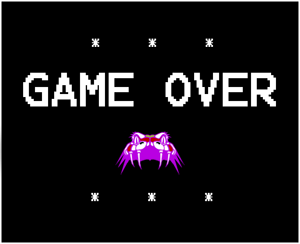
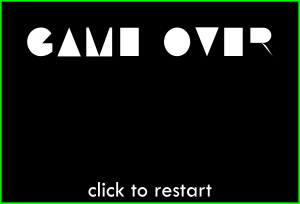
main open page lasers sound music

diff --git a/07-OblazPy/OblazPy.py b/07-OblazPy/OblazPy.py
@@ -29,6 +29,7 @@ class Ball:
         self.last_hit_time = 0
         self.mass = 1
         self.speed = 50
+        self.sound = pygame.mixer.Sound("bounce.wav")
 
     def draw(self):
         pygame.draw.circle(self.screen, self.color, (self.x, self.y), self.radius)
@@ -50,6 +51,8 @@ class Ball:
 
     def hit(self, particle):
         distance = math.sqrt((self.x - particle.x) ** 2 + (self.y - particle.y) ** 2)
+        if distance < self.radius:
+            self.sound.play()
         return distance < self.radius
 
     def wrap(self):
@@ -64,19 +67,58 @@ class Scoreboard:
         self.screen = screen
         self.start = start_time
         self.score = 0
-        self.font = pygame.font.Font(None, 30)
+        self.font = pygame.font.SysFont('bahnschrift', 30)
 
     def draw(self):
         score_string = "Time: {}".format(self.score)
         score_image = self.font.render(score_string, True, (255, 255, 255))
-        self.screen.blit(score_image, (100, 100))
+        self.screen.blit(score_image, (20, 20))
 
     def update(self):
         self.score = round(time.time() - self.start, 3)
 
 
 class Leaderboard:
-    pass
+    def __init__(self, screen):
+        self.all_scores = [0]
+        self.screen = screen
+
+    def add_score(self, score):
+        self.all_scores.append(score)
+
+    def high_score(self):
+        return max(self.all_scores)
+
+    def draw(self):
+        font = pygame.font.SysFont('bahnschrift', 30)
+        score_string = "Best: {}".format(self.high_score())
+        score_image = font.render(score_string, True, (255, 255, 255))
+        self.screen.blit(score_image, (20, 60))
+
+
+class Laser:
+    def __init__(self, screen, y):
+        self.screen = screen
+        self.color = (255, 0, 0)
+        self.start_x = 0
+        self.end_x = screen.get_width()
+        self.y = y
+        self.sound = pygame.mixer.Sound("laser_death.wav")
+
+    def draw(self):
+        pygame.draw.line(self.screen, self.color, (self.start_x, self.y), (self.end_x, self.y), 4)
+
+    def top_hit(self, ball):
+        if self.y + ball.radius > ball.y:
+            self.sound.play()
+            return True
+        return False
+
+    def bot_hit(self, ball):
+        if self.y - ball.radius < ball.y:
+            self.sound.play()
+            return True
+        return False
 
 
 class LineParticle:
@@ -85,7 +127,7 @@ class LineParticle:
         self.x = x
         self.y = y
         self.color = (0, 255, 0)
-        self.radius = 5
+        self.radius = 3
         self.diameter = self.radius * 2
         self.speed = 1
         self.mass = math.inf  # TODO: check if 100 is better
@@ -96,94 +138,117 @@ class LineParticle:
     def move(self):
         self.y = self.y - self.speed
 
+    """
+    def increase_speed(self, score):
+        self.speed = math.ceil(score / 10)
+    """
 
-class Pen():
+class Pen:
     """ moves a draw dot on the screen, following the mouse"""
-    def __init__(self, screen):
+    def __init__(self, screen, radius=5):
         pos = pygame.mouse.get_pos()
         self.x, self.y = pygame.mouse.get_pos()
         self.screen = screen
         self.color = (255, 0, 255)
+        self.radius = radius
 
     def draw(self):
-        pygame.draw.circle(self.screen, self.color, (self.x, self.y), 5)
+        pygame.draw.circle(self.screen, self.color, (self.x, self.y), self.radius)
+
+class Eraser:
+    def __init__(self):
+        pass
+
+class Freeze:
+    def __init__(self, screen, x, y):
+        pass
 
 
-def setup(first_round_state):
-    if first_round_state:
-        while first_round_state:
-            for event in pygame.event.get():
-                if event.type == pygame.QUIT:
-                    pygame.quit()
-                    quit()
-                pressed_keys = pygame.mouse.get_pressed()
-                if pressed_keys == (1, 0, 0):
-                    first_round_state = False
-
-            pygame.display.update()
-    else:
-       pass
-
-
-def main():
+def game_loop(screen, scoreboard, leaderboard, clock, font):
     # Boilerplate code
-    game_over_image = pygame.image.load("gameover.png")
 
-    pygame.init()
-    screen = pygame.display.set_mode((1000, 1000))
-    clock = pygame.time.Clock()
-    round_number = 1
+   # load images
+    game_over_image = pygame.image.load("gameover.png")
+    wait_to_start = True
     is_game_over = False
 
-    # construct ball and line list
+    # construct ball, laser and line list
+    top_laser = Laser(screen, 20)
+    bot_laser = Laser(screen, screen.get_height() - 20)
     line_list = []
-    ball = Ball(screen, screen.get_width() // 2, 50)
+    ball = Ball(screen, screen.get_width() // 2, 60)
     ball.draw()
-    scoreboard = Scoreboard(screen, time.time())
     scoreboard.draw()
+    leaderboard.draw()
+    top_laser.draw()
+    bot_laser.draw()
 
-    while round_number == 1:
+    # wait for mouse click to start game
+    while wait_to_start:
         for event in pygame.event.get():
             if event.type == pygame.QUIT:
                 pygame.quit()
                 quit()
             pressed_keys = pygame.mouse.get_pressed()
             if pressed_keys == (1, 0, 0):
-                round_number += 1
                 scoreboard = Scoreboard(screen, time.time())
-
+                wait_to_start = False
         pygame.display.update()
 
     # introduction screen and game is over screen
-
     while True:
         screen.fill((0, 0, 0))  # black
-        clock.tick(120)  # sets clock speed to 60 fps
+        clock.tick(120)  # sets clock speed to 120 fps
 
         for event in pygame.event.get():
             if event.type == pygame.QUIT:
                 sys.exit()
 
-        # Check for game over
-        if ball.y > screen.get_height() or ball.y < 0:
-            is_game_over = True
+        #TODO: implement incremental level up
+        """
+        # check for level up 
+        for particle in line_list:
+            particle.increase_speed(scoreboard.score)
+        """
 
         # Draw these before game is over
         scoreboard.draw()
+        leaderboard.draw()
         ball.draw()
         for particle in line_list:
             particle.draw()
-
+        top_laser.draw()
+        bot_laser.draw()
         pen = Pen(screen)
         pen.draw()
 
+        game_over_loops = 0
         if is_game_over:
+            game_over_loops += 1
+
+            # draw game over image
             screen.blit(game_over_image, (screen.get_width() // 2 - game_over_image.get_width() // 2,
                                           screen.get_height() // 2 - game_over_image.get_height() // 2))
-            pygame.display.update()
+
+            # check for restart click
             pressed_keys = pygame.mouse.get_pressed()
-            if pressed_keys == (1, 0, 0):
-                main()
+            position_x, position_y = pygame.mouse.get_pos()
+            hitbox = pygame.Rect(screen.get_width() // 2 - game_over_image.get_width() // 2,
+                                 screen.get_height() // 2 - game_over_image.get_height() // 2,
+                                 game_over_image.get_width(),
+                                 game_over_image.get_height())
+            score_image = font.render(str(scoreboard.score), True, (255, 255, 255))
+            high_score_image = font.render("NEW HIGH SCORE!", True, (255, 255, 255))
+            screen.blit(score_image, (screen.get_width() // 2 - score_image.get_width() // 2,
+                                      screen.get_height() // 2 - score_image.get_height() // 2 + 10))
+            if scoreboard.score == leaderboard.high_score() and game_over_loops > 2: #TODO: flashing
+                screen.blit(high_score_image, (screen.get_width() // 2 - high_score_image.get_width() // 2,
+                                               screen.get_height() // 2 - high_score_image.get_height() // 2 - 200))
+
+            pygame.display.update()
+            if pressed_keys == (1, 0, 0) and hitbox.collidepoint(position_x, position_y):
+                screen.fill((0, 0, 0))
+                game_loop(screen, scoreboard, leaderboard, clock, font)
             continue
 
         # construct line when mouse clicked
@@ -202,11 +267,33 @@ def main():
         for particle in line_list:
             particle.move()
 
-        ball.move()
+        for k in range(len(line_list) - 1, -1, -1):
+            if line_list[k].y < top_laser.y:
+                del line_list[k]
 
+        ball.move()
         scoreboard.update()
+
+        # Check for game over
+        if top_laser.top_hit(ball) or bot_laser.bot_hit(ball):
+            is_game_over = True
+            leaderboard.add_score(scoreboard.score)
 
         pygame.display.update()
 
+
+def main():
+    pygame.init()
+    pygame.display.set_caption("LASER HATER!")
+    screen = pygame.display.set_mode((800, 800))
+    leaderboard = Leaderboard(screen)
+    clock = pygame.time.Clock()
+    scoreboard = Scoreboard(screen, time.time())
+    pygame.mouse.set_cursor(*pygame.cursors.ball)
+    font = pygame.font.SysFont('bahnschrift', 90)
+    pygame.mixer.music.load('background.wav')
+    pygame.mixer.music.play(999)
+
+    game_loop(screen, scoreboard, leaderboard, clock, font)
 
 main()

diff --git a/simulation.py b/simulation.py
@@ -1,4 +1,4 @@
-import numpy as np
+        import numpy as np
 import matplotlib.pyplot as plt
 from matplotlib.patches import Circle
 from matplotlib import animation
